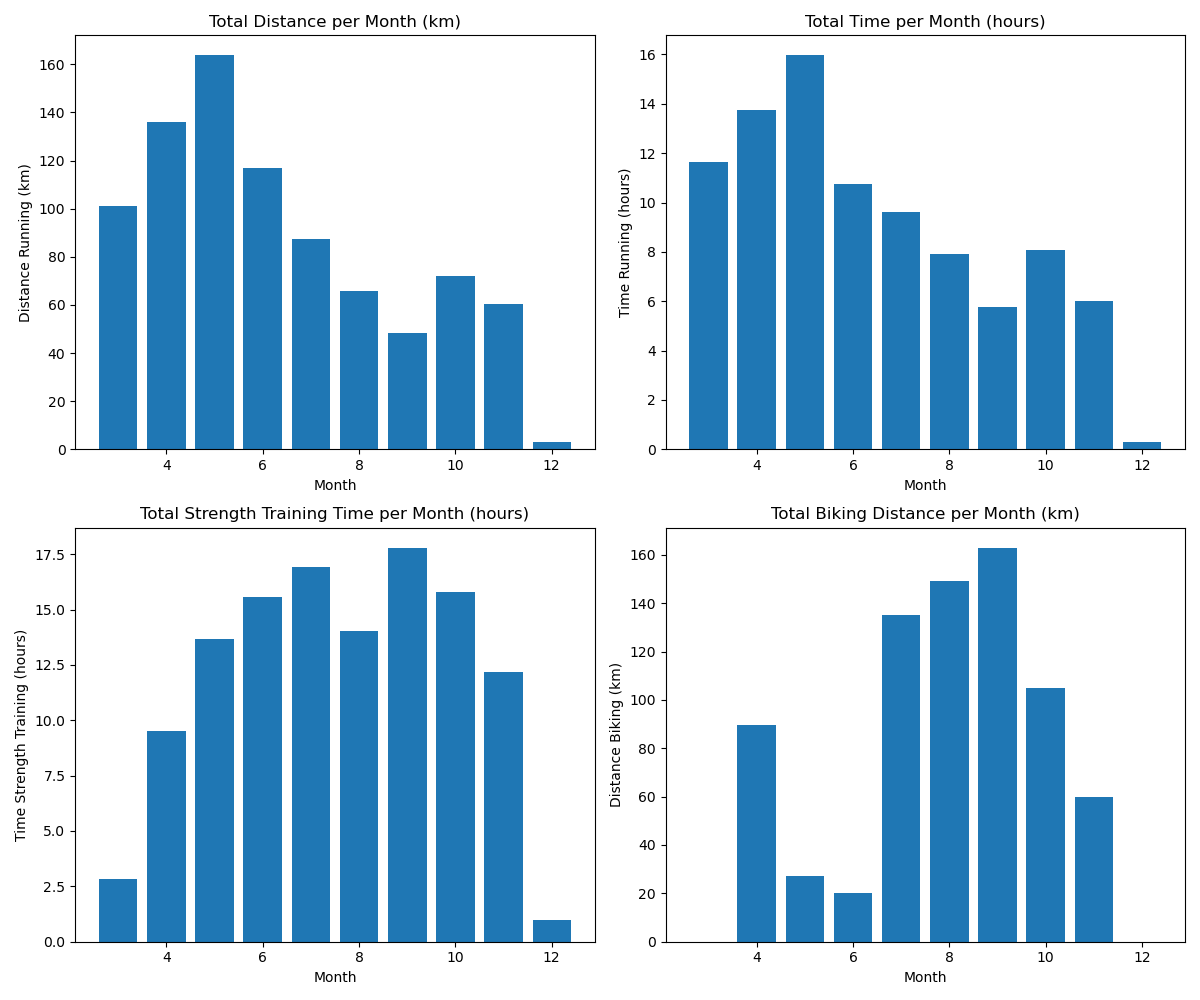
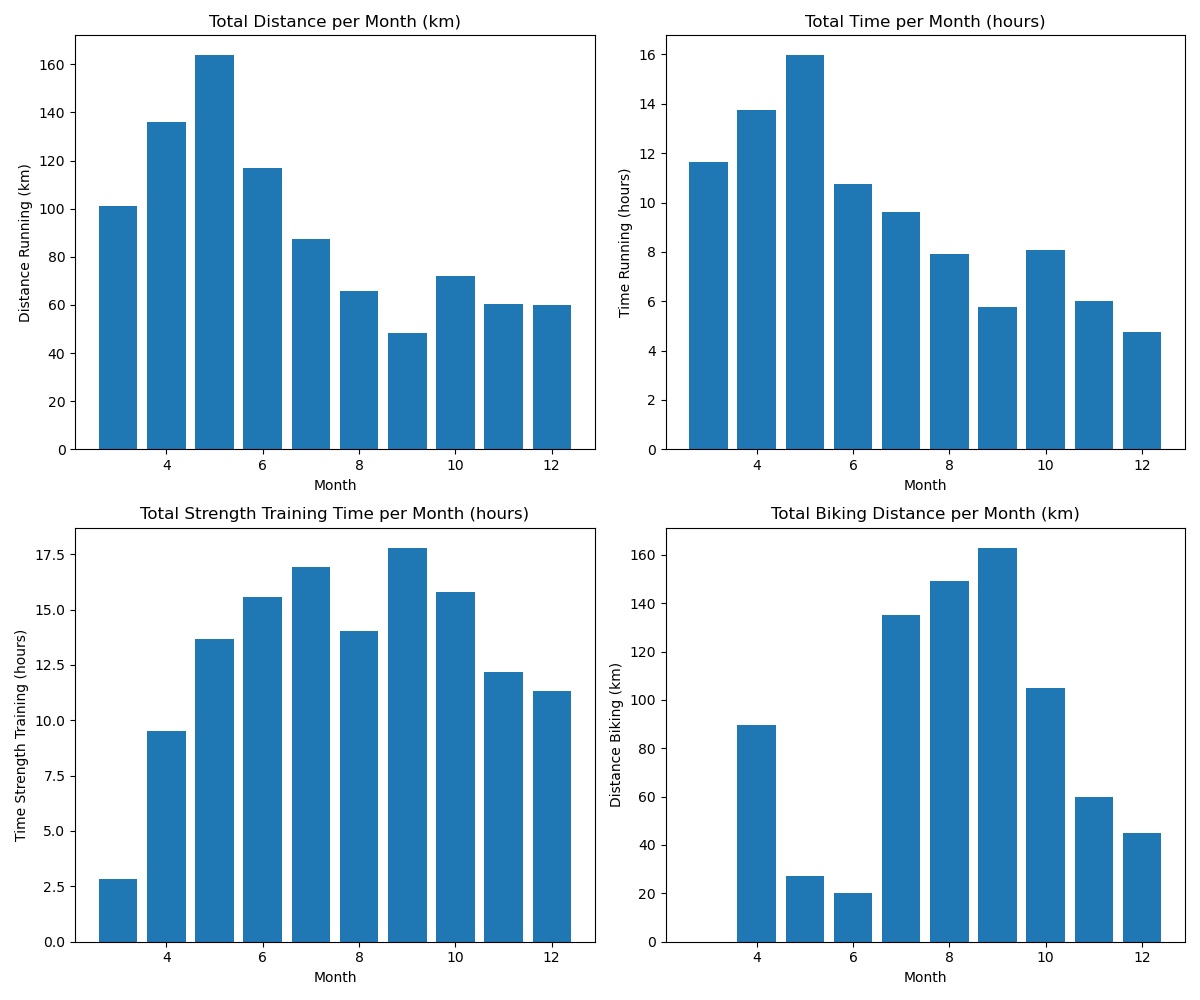
sport update

diff --git a/Sport/Sport_2025_report.md b/Sport/Sport_2025_report.md
@@ -1,3 +1,22 @@
 # Sport Data Report
 
 ## Sport Counts
+| type   |   count |
+|:-------|--------:|
+| F      |     203 |
+| L      |      25 |
+| S      |       7 |
+| Total  |     235 |
+
+## Summary
+- **Total distance run on treadmill:** 751.30 km
+- **Total distance run outside:** 144.35 km
+- **Total distance cycled:** 793.80 km
+- **Total distance swimming:** 16.20 km
+- **Total time spent on strength training:** 129h 37min
+
+## Average Speeds
+- **Treadmill running:** 10.12 km/h
+- **Outside running:** 10.31 km/h
+- **Cycling:** 22.89 km/h
+- **Swimming:** 2.36 km/h
